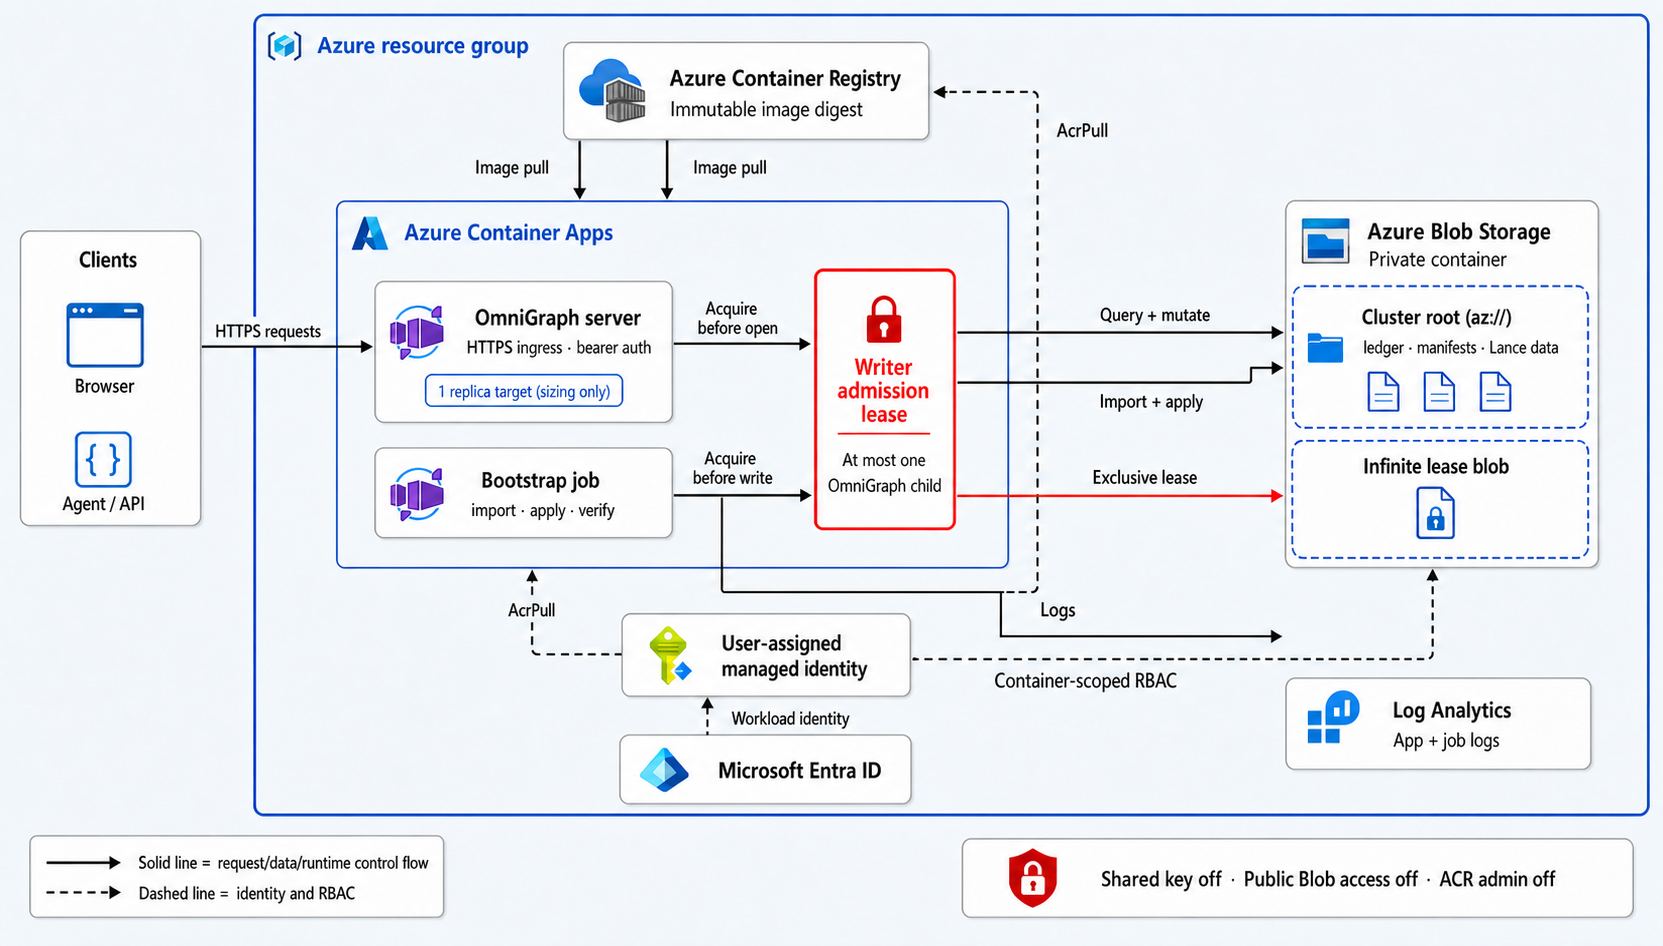
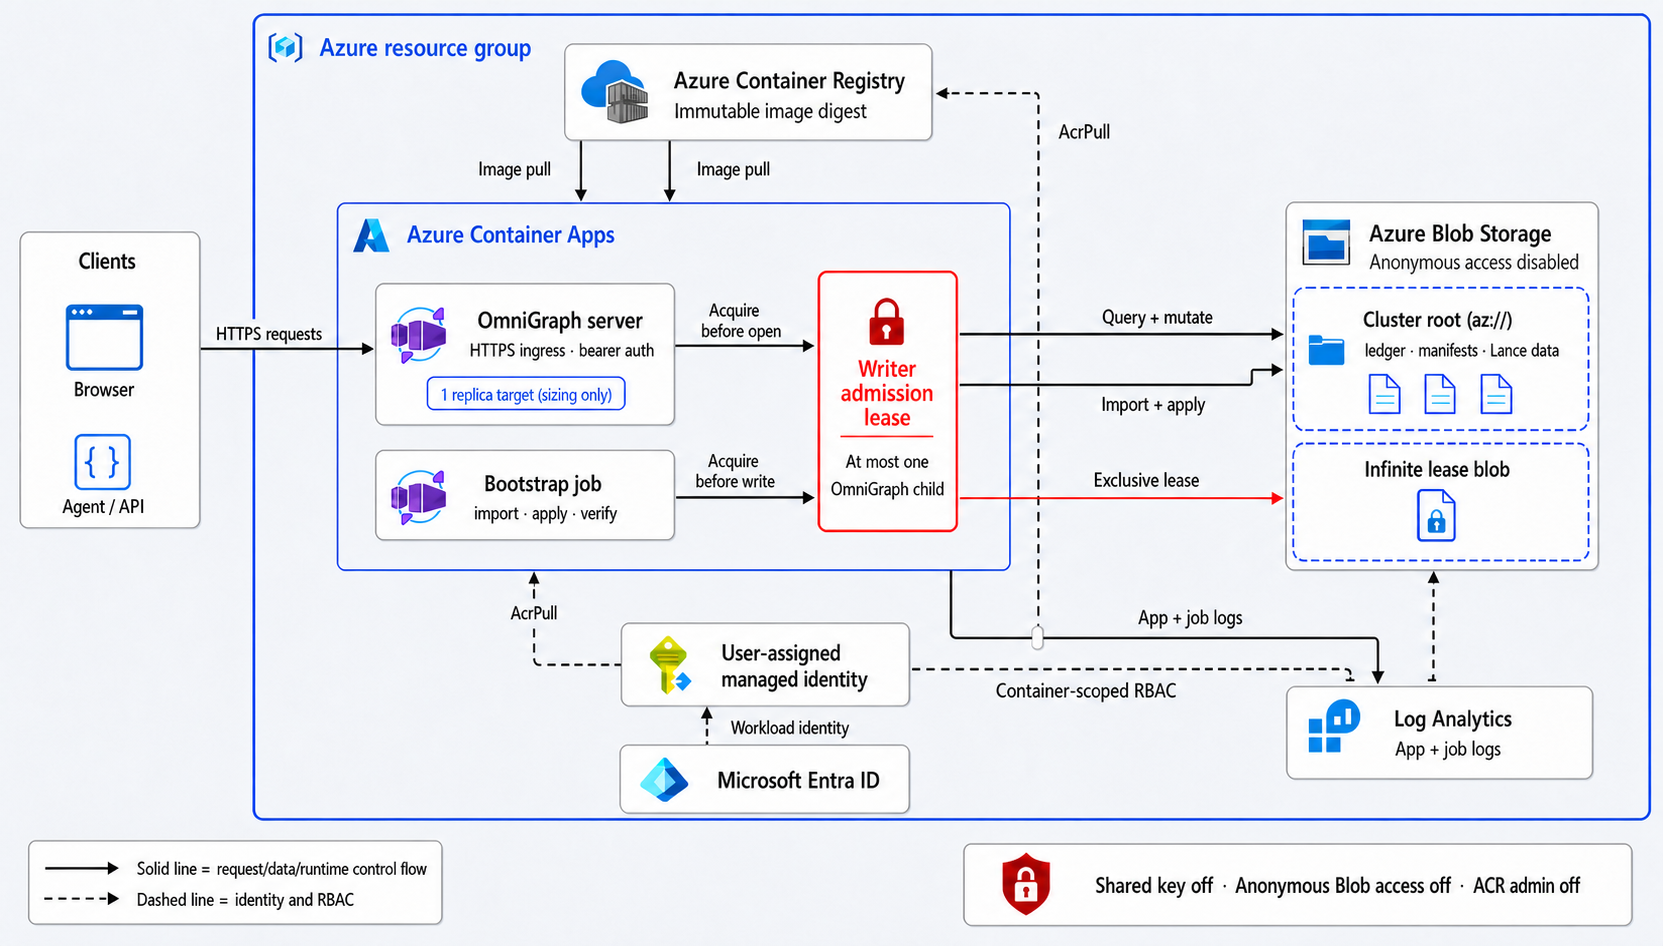
docs(rfc): clarify Azure admission boundary

diff --git a/docs/rfcs/0029-azure-blob-storage.md b/docs/rfcs/0029-azure-blob-storage.md
@@ -146,6 +146,9 @@ az://<container>[/<object-prefix>]
 - `<container>` is required and must be valid for Azure Blob Storage.
 - The object prefix may be empty, although a dedicated cluster prefix is
   recommended.
+- The storage backend accepts an empty prefix, but the Container Apps reference
+  deployment requires a non-empty dedicated prefix so its reserved admission
+  object stays unambiguous and outside graph-root cleanup.
 - A trailing slash on a root is normalized away, matching S3 root behavior.
 - Joining graph and control paths appends slash-delimited object keys beneath
   the captured root.
@@ -171,8 +174,8 @@ The checked-in deployment creates or connects the following resources:
 - `Storage Blob Data Contributor` for that identity scoped to the cluster
   container and `AcrPull` scoped to the registry;
 - a Log Analytics workspace and Container Apps environment;
-- one deployment-owned writer-admission Blob beneath the canonical cluster
-  prefix; and
+- one deployment-owned writer-admission Blob in a reserved container-level
+  namespace outside the canonical cluster prefix; and
 - an externally reachable Container App with HTTPS ingress, `/healthz` probes,
   a secure bearer-token secret, and a one-replica sizing target.
 
@@ -181,6 +184,12 @@ The app receives `AZURE_STORAGE_ACCOUNT_NAME` and
 `--cluster` argument. It does not receive a storage account key. The storage
 container remains private, and deployment output must not print the server
 bearer token or any credential.
+
+In this first public-cloud topology, "private" means anonymous Blob access is
+disabled (`allowBlobPublicAccess = false`), shared-key authorization is
+disabled, and runtime access uses Microsoft Entra ID plus container-scoped
+RBAC. The Azure Blob public service endpoint remains enabled. Private endpoints
+and VNet integration are explicitly outside this first support boundary.
 
 Azure documents that replica quantities are
 [targets, not guarantees](https://learn.microsoft.com/azure/container-apps/scale-app),
@@ -191,8 +200,10 @@ assertions only. They are not part of the correctness proof.
 Both the serving app and every bootstrap/job execution enter through the same
 PID-1 wrapper. Before any child can open the cluster or run recovery, the
 wrapper derives one canonical lock Blob from the exact storage account,
-container, and normalized cluster root, creates it atomically if necessary, and
-excludes it from lifecycle cleanup. It generates a
+container, and normalized cluster root. It stores that permanent object at
+`__omnigraph_azure_admission/v1/<normalized-prefix>/writer.lock`, a reserved
+container-level namespace outside the cluster root and its lifecycle cleanup,
+and creates it atomically if necessary. It generates a
 cryptographically unique proposed lease ID, and positively acquires an
 [infinite Blob lease](https://learn.microsoft.com/rest/api/storageservices/lease-blob)
 with managed identity. Azure grants only one active lease for that Blob. A
@@ -302,9 +313,12 @@ SAS query strings, token responses, or Container Apps secret values. URI
 validation rejects query-bearing roots, which also prevents SAS credentials
 from becoming persisted cluster identifiers.
 
-The admission wrapper keeps the managed-identity header, Blob access token, and
-lease ID out of child-inherited environment, command arguments, and logs. It
-uses owner-only temporary request files and removes them after use.
+The admission wrapper keeps its acquired Blob access token, lease ID, and
+request files out of the child environment, command arguments, and logs. The
+OmniGraph child still receives the Container Apps-managed identity endpoint and
+header because its own Azure storage credential provider requires them; those
+runtime values must not be logged. Wrapper-owned request files are owner-only
+and removed after use.
 
 ### Supported process topology
 

diff --git a/docs/rfcs/assets/0029-azure-reference-architecture.prompt.md b/docs/rfcs/assets/0029-azure-reference-architecture.prompt.md
@@ -36,10 +36,12 @@ resource group".
    exact sublabel "At most one OmniGraph child". Both the server and bootstrap
    job must connect through this gate before reaching storage. Make it clear
    that an extra pre-warmed replica can exist but cannot pass the gate.
-4. Right: an "Azure Blob Storage" card with sublabel "Private container".
+4. Right: an "Azure Blob Storage" card with sublabel "Anonymous access
+   disabled".
    Inside it show two compartments:
    - "Cluster root (az://)" with small labels "ledger · manifests · Lance data".
-   - "Infinite lease blob".
+   - "Infinite lease blob", visibly separate from the cluster root and stored
+     in a reserved container-level admission namespace.
 5. Above the Container Apps boundary: "Azure Container Registry" with sublabel
    "Immutable image digest".
 6. Below: "User-assigned managed identity" and "Microsoft Entra ID".
@@ -59,10 +61,11 @@ Connections and exact arrow labels:
 - Managed identity to Azure Blob Storage: dashed arrow,
   "Container-scoped RBAC".
 - Managed identity to Azure Container Registry: dashed arrow, "AcrPull".
-- Server and job to Log Analytics: solid arrows, "Logs".
+- Azure Container Apps boundary (representing both server and job) to Log
+  Analytics: one solid arrow, "App + job logs".
 
 Legend: solid line = request/data/runtime control flow; dashed line = identity
-and RBAC. Add a small security strip with exactly: "Shared key off · Public
+and RBAC. Add a small security strip with exactly: "Shared key off · Anonymous
 Blob access off · ACR admin off".
 
 Constraints: Keep total service-node count under 12. Preserve every quoted
